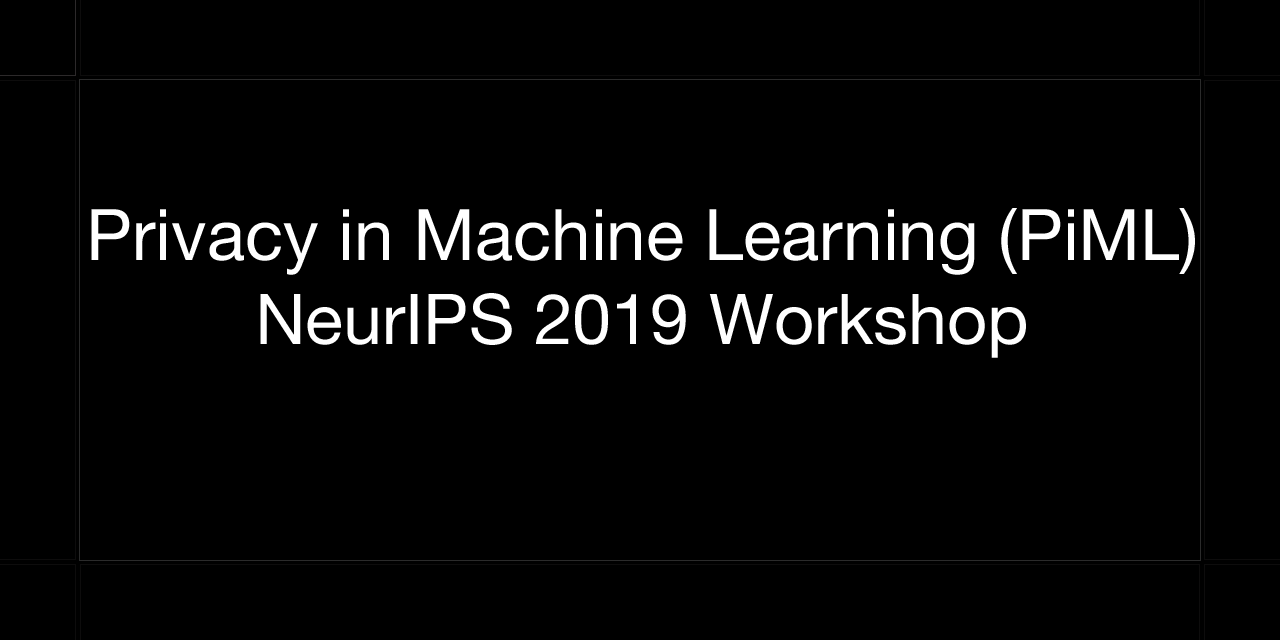
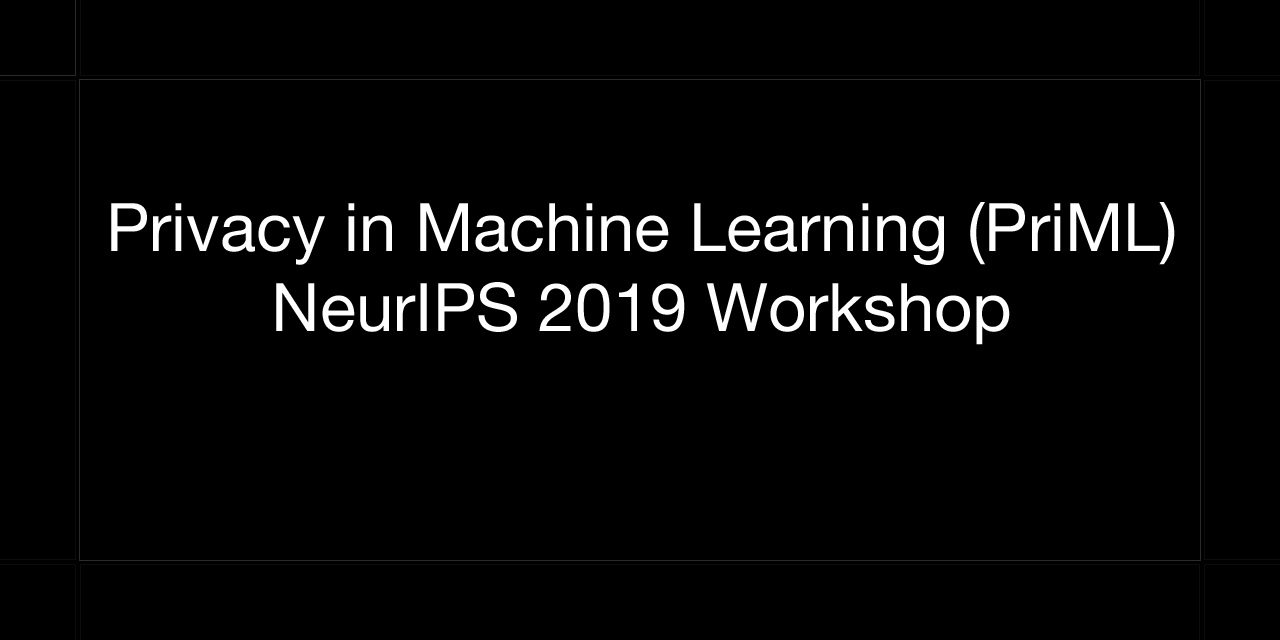
piml -> priml

Changed region(s): [[0.0625, 0.3125, 0.9375, 0.5625]]

diff --git a/index.html b/index.html
@@ -6,12 +6,12 @@
     <meta charset="utf-8">
     <meta http-equiv="X-UA-Compatible" content="IE=edge">
     <meta name="viewport" content="width=device-width, initial-scale=1">
-    <meta property="og:image" content="https://piml-workshop.github.io/piml/img/preview-image.png" />
-    <meta property="og:image:alt" content="Privacy in Machine Learning (PiML) NeurIPS 2019 Workshop" />
+    <meta property="og:image" content="https://priml-workshop.github.io/priml2019/img/preview-image.png" />
+    <meta property="og:image:alt" content="Privacy in Machine Learning (PriML) NeurIPS 2019 Workshop" />
     <meta name="twitter:card" content="summary" />
     <meta name="twitter:title" content="Privacy in Machine Learning (NeurIPS 2019 Workshop)" />
-    <meta name="twitter:image" content="https://piml-workshop.github.io/piml/img/twitter-img.png" />
-    <meta name="twitter:image:alt" content="PiML Workshop" />
+    <meta name="twitter:image" content="https://priml-workshop.github.io/priml2019/img/twitter-img.png" />
+    <meta name="twitter:image:alt" content="PriML Workshop" />
     <meta name="description" content="">
     <meta name="author" content="">
 
@@ -41,7 +41,7 @@
                     Menu <i class="fa fa-bars"></i>
                 </button>
                 <a class="navbar-brand page-scroll" href="#page-top">
-                    <span class="light">P<span style="text-transform:lowercase">i</span>ML'19</span>
+                    <span class="light">P<span style="text-transform:lowercase">ri</span>ML'19</span>
                 </a>
             </div>
 
@@ -141,7 +141,7 @@
             <div class="row">
                 <div class="col-lg-8 col-lg-offset-2">
                     <h2>Call For Papers &amp; Important Dates</h2>
-                    <a href="cfp-piml19.txt" class="btn btn-default btn-lg">Download Full CFP</a>
+                    <a href="cfp-priml19.txt" class="btn btn-default btn-lg">Download Full CFP</a>
                     <br/>
                     <br/>
                     <br/>
